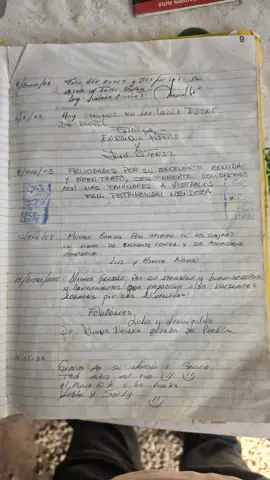
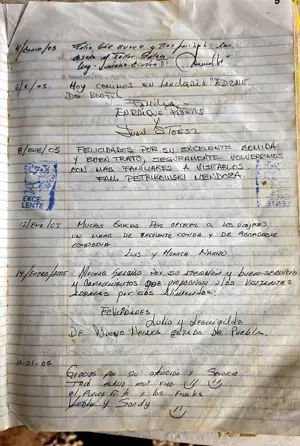
Libreta de Lupita y Jaime: páginas recortadas (solo la hoja), derechas y con mejor contraste
Claude-Session: https://claude.ai/code/session_01Yc6JkFmjoDmxFnH2HCh24T

diff --git a/sitio/lupita-y-jaime/index.html b/sitio/lupita-y-jaime/index.html
@@ -60,9 +60,9 @@
 <section style="padding-top:0"><div class="w">
 <h2 data-en="Their guestbook since 2004">Su libreta de visitas desde 2004</h2>
 <p class="mu" data-en="For more than 20 years, visitors from Mexico, Germany, Austria, the Netherlands, Italy, Switzerland, Japan, Brazil, the United States and more have left their greetings in Lupita and Jaime's guestbook. Tap a page to see it large. We keep adding pages." style="max-width:65ch">Por más de 20 años, visitantes de México, Alemania, Austria, Holanda, Italia, Suiza, Japón, Brasil, Estados Unidos y más han dejado sus saludos en la libreta de Lupita y Jaime. Toca una página para verla en grande. Seguimos subiendo más.</p>
-<style>.lbg{display:grid;grid-template-columns:repeat(auto-fill,minmax(130px,1fr));gap:10px;margin-top:14px}.lbt{position:relative;padding:0;border:1px solid var(--line);border-radius:12px;overflow:hidden;background:none;cursor:pointer}.lbt img{width:100%;height:auto;display:block;aspect-ratio:9/16;object-fit:cover}.lbt span{position:absolute;left:6px;bottom:6px;background:rgba(10,5,20,.8);color:#fff;font-size:12px;font-weight:800;padding:2px 8px;border-radius:99px}
+<style>.lbg{display:grid;grid-template-columns:repeat(auto-fill,minmax(130px,1fr));gap:10px;margin-top:14px}.lbt{position:relative;padding:0;border:1px solid var(--line);border-radius:12px;overflow:hidden;background:none;cursor:pointer}.lbt img{width:100%;height:auto;display:block;aspect-ratio:3/4;object-fit:cover;object-position:top}.lbt span{position:absolute;left:6px;bottom:6px;background:rgba(10,5,20,.8);color:#fff;font-size:12px;font-weight:800;padding:2px 8px;border-radius:99px}
 #lbx{position:fixed;inset:0;z-index:9999;background:rgba(5,3,10,.96);display:flex;flex-direction:column;align-items:center;justify-content:center;padding:max(12px,env(safe-area-inset-top)) 12px max(12px,env(safe-area-inset-bottom))}#lbx[hidden]{display:none}#lbx img{max-width:100%;max-height:calc(100vh - 90px);object-fit:contain;border-radius:8px;touch-action:pan-y pinch-zoom}#lbx .bar{display:flex;gap:10px;margin-top:10px;align-items:center;color:#fff}#lbx button{font:800 18px system-ui;background:#2a1150;color:#fff;border:1px solid #6b3fb0;border-radius:12px;padding:10px 16px;cursor:pointer}</style>
-<div class="lbg"><button aria-label="Ver página 1" class="lbt" onclick="lbA(0)"><img alt="Página de la libreta de visitas · 2004" height="533" loading="lazy" src="../img/libreta-01-t.webp" width="300"/><span>2004</span></button><button aria-label="Ver página 2" class="lbt" onclick="lbA(1)"><img alt="Página de la libreta de visitas · 2004" height="533" loading="lazy" src="../img/libreta-02-t.webp" width="300"/><span>2004</span></button><button aria-label="Ver página 3" class="lbt" onclick="lbA(2)"><img alt="Página de la libreta de visitas · 2004" height="533" loading="lazy" src="../img/libreta-03-t.webp" width="300"/><span>2004</span></button><button aria-label="Ver página 4" class="lbt" onclick="lbA(3)"><img alt="Página de la libreta de visitas · 2004" height="533" loading="lazy" src="../img/libreta-04-t.webp" width="300"/><span>2004</span></button><button aria-label="Ver página 5" class="lbt" onclick="lbA(4)"><img alt="Página de la libreta de visitas · 2004" height="533" loading="lazy" src="../img/libreta-05-t.webp" width="300"/><span>2004</span></button><button aria-label="Ver página 6" class="lbt" onclick="lbA(5)"><img alt="Página de la libreta de visitas · 2004–2005" height="533" loading="lazy" src="../img/libreta-06-t.webp" width="300"/><span>2004–2005</span></button><button aria-label="Ver página 7" class="lbt" onclick="lbA(6)"><img alt="Página de la libreta de visitas · 2005" height="533" loading="lazy" src="../img/libreta-07-t.webp" width="300"/><span>2005</span></button><button aria-label="Ver página 8" class="lbt" onclick="lbA(7)"><img alt="Página de la libreta de visitas · 2005" height="533" loading="lazy" src="../img/libreta-08-t.webp" width="300"/><span>2005</span></button><button aria-label="Ver página 9" class="lbt" onclick="lbA(8)"><img alt="Página de la libreta de visitas · 2005" height="533" loading="lazy" src="../img/libreta-09-t.webp" width="300"/><span>2005</span></button><button aria-label="Ver página 10" class="lbt" onclick="lbA(9)"><img alt="Página de la libreta de visitas · 2005" height="533" loading="lazy" src="../img/libreta-10-t.webp" width="300"/><span>2005</span></button><button aria-label="Ver página 11" class="lbt" onclick="lbA(10)"><img alt="Página de la libreta de visitas · 2006" height="533" loading="lazy" src="../img/libreta-11-t.webp" width="300"/><span>2006</span></button><button aria-label="Ver página 12" class="lbt" onclick="lbA(11)"><img alt="Página de la libreta de visitas" height="533" loading="lazy" src="../img/libreta-12-t.webp" width="300"/></button><button aria-label="Ver página 13" class="lbt" onclick="lbA(12)"><img alt="Página de la libreta de visitas · 2022–2023" height="533" loading="lazy" src="../img/libreta-13-t.webp" width="300"/><span>2022–2023</span></button></div>
+<div class="lbg"><button aria-label="Ver página 1" class="lbt" onclick="lbA(0)"><img alt="Página de la libreta de visitas · 2004" height="400" loading="lazy" src="../img/libreta-01-t.webp" width="300"/><span>2004</span></button><button aria-label="Ver página 2" class="lbt" onclick="lbA(1)"><img alt="Página de la libreta de visitas · 2004" height="400" loading="lazy" src="../img/libreta-02-t.webp" width="300"/><span>2004</span></button><button aria-label="Ver página 3" class="lbt" onclick="lbA(2)"><img alt="Página de la libreta de visitas · 2004" height="400" loading="lazy" src="../img/libreta-03-t.webp" width="300"/><span>2004</span></button><button aria-label="Ver página 4" class="lbt" onclick="lbA(3)"><img alt="Página de la libreta de visitas · 2004" height="400" loading="lazy" src="../img/libreta-04-t.webp" width="300"/><span>2004</span></button><button aria-label="Ver página 5" class="lbt" onclick="lbA(4)"><img alt="Página de la libreta de visitas · 2004" height="400" loading="lazy" src="../img/libreta-05-t.webp" width="300"/><span>2004</span></button><button aria-label="Ver página 6" class="lbt" onclick="lbA(5)"><img alt="Página de la libreta de visitas · 2004–2005" height="400" loading="lazy" src="../img/libreta-06-t.webp" width="300"/><span>2004–2005</span></button><button aria-label="Ver página 7" class="lbt" onclick="lbA(6)"><img alt="Página de la libreta de visitas · 2005" height="400" loading="lazy" src="../img/libreta-07-t.webp" width="300"/><span>2005</span></button><button aria-label="Ver página 8" class="lbt" onclick="lbA(7)"><img alt="Página de la libreta de visitas · 2005" height="400" loading="lazy" src="../img/libreta-08-t.webp" width="300"/><span>2005</span></button><button aria-label="Ver página 9" class="lbt" onclick="lbA(8)"><img alt="Página de la libreta de visitas · 2005" height="400" loading="lazy" src="../img/libreta-09-t.webp" width="300"/><span>2005</span></button><button aria-label="Ver página 10" class="lbt" onclick="lbA(9)"><img alt="Página de la libreta de visitas · 2005" height="400" loading="lazy" src="../img/libreta-10-t.webp" width="300"/><span>2005</span></button><button aria-label="Ver página 11" class="lbt" onclick="lbA(10)"><img alt="Página de la libreta de visitas · 2006" height="400" loading="lazy" src="../img/libreta-11-t.webp" width="300"/><span>2006</span></button><button aria-label="Ver página 12" class="lbt" onclick="lbA(11)"><img alt="Página de la libreta de visitas" height="400" loading="lazy" src="../img/libreta-12-t.webp" width="300"/></button><button aria-label="Ver página 13" class="lbt" onclick="lbA(12)"><img alt="Página de la libreta de visitas · 2022–2023" height="400" loading="lazy" src="../img/libreta-13-t.webp" width="300"/><span>2022–2023</span></button></div>
 <div hidden="" id="lbx"><img alt="" id="lbi"/><div class="bar"><button aria-label="Anterior" onclick="lbM(-1)">‹</button><span id="lbn"></span><button aria-label="Siguiente" onclick="lbM(1)">›</button><button aria-label="Cerrar" onclick="lbC()">✕</button></div></div>
 <script>var LBN=13,LBI=0;function lbS(){var n=('0'+(LBI+1)).slice(-2);document.getElementById('lbi').src='/img/libreta-'+n+'.webp';document.getElementById('lbn').textContent=(LBI+1)+' / '+LBN}
 function lbA(i){LBI=i;lbS();document.getElementById('lbx').hidden=false}function lbM(d){LBI=(LBI+d+LBN)%LBN;lbS()}function lbC(){document.getElementById('lbx').hidden=true}

diff --git a/sitio/en/lupita-y-jaime/index.html b/sitio/en/lupita-y-jaime/index.html
@@ -60,9 +60,9 @@
 <section style="padding-top:0"><div class="w">
 <h2>Their guestbook since 2004</h2>
 <p class="mu" style="max-width:65ch">For more than 20 years, visitors from Mexico, Germany, Austria, the Netherlands, Italy, Switzerland, Japan, Brazil, the United States and more have left their greetings in Lupita and Jaime's guestbook. Tap a page to see it large. We keep adding pages.</p>
-<style>.lbg{display:grid;grid-template-columns:repeat(auto-fill,minmax(130px,1fr));gap:10px;margin-top:14px}.lbt{position:relative;padding:0;border:1px solid var(--line);border-radius:12px;overflow:hidden;background:none;cursor:pointer}.lbt img{width:100%;height:auto;display:block;aspect-ratio:9/16;object-fit:cover}.lbt span{position:absolute;left:6px;bottom:6px;background:rgba(10,5,20,.8);color:#fff;font-size:12px;font-weight:800;padding:2px 8px;border-radius:99px}
+<style>.lbg{display:grid;grid-template-columns:repeat(auto-fill,minmax(130px,1fr));gap:10px;margin-top:14px}.lbt{position:relative;padding:0;border:1px solid var(--line);border-radius:12px;overflow:hidden;background:none;cursor:pointer}.lbt img{width:100%;height:auto;display:block;aspect-ratio:3/4;object-fit:cover;object-position:top}.lbt span{position:absolute;left:6px;bottom:6px;background:rgba(10,5,20,.8);color:#fff;font-size:12px;font-weight:800;padding:2px 8px;border-radius:99px}
 #lbx{position:fixed;inset:0;z-index:9999;background:rgba(5,3,10,.96);display:flex;flex-direction:column;align-items:center;justify-content:center;padding:max(12px,env(safe-area-inset-top)) 12px max(12px,env(safe-area-inset-bottom))}#lbx[hidden]{display:none}#lbx img{max-width:100%;max-height:calc(100vh - 90px);object-fit:contain;border-radius:8px;touch-action:pan-y pinch-zoom}#lbx .bar{display:flex;gap:10px;margin-top:10px;align-items:center;color:#fff}#lbx button{font:800 18px system-ui;background:#2a1150;color:#fff;border:1px solid #6b3fb0;border-radius:12px;padding:10px 16px;cursor:pointer}</style>
-<div class="lbg"><button aria-label="Ver página 1" class="lbt" onclick="lbA(0)"><img alt="Página de la libreta de visitas · 2004" height="533" loading="lazy" src="/img/libreta-01-t.webp" width="300"/><span>2004</span></button><button aria-label="Ver página 2" class="lbt" onclick="lbA(1)"><img alt="Página de la libreta de visitas · 2004" height="533" loading="lazy" src="/img/libreta-02-t.webp" width="300"/><span>2004</span></button><button aria-label="Ver página 3" class="lbt" onclick="lbA(2)"><img alt="Página de la libreta de visitas · 2004" height="533" loading="lazy" src="/img/libreta-03-t.webp" width="300"/><span>2004</span></button><button aria-label="Ver página 4" class="lbt" onclick="lbA(3)"><img alt="Página de la libreta de visitas · 2004" height="533" loading="lazy" src="/img/libreta-04-t.webp" width="300"/><span>2004</span></button><button aria-label="Ver página 5" class="lbt" onclick="lbA(4)"><img alt="Página de la libreta de visitas · 2004" height="533" loading="lazy" src="/img/libreta-05-t.webp" width="300"/><span>2004</span></button><button aria-label="Ver página 6" class="lbt" onclick="lbA(5)"><img alt="Página de la libreta de visitas · 2004–2005" height="533" loading="lazy" src="/img/libreta-06-t.webp" width="300"/><span>2004–2005</span></button><button aria-label="Ver página 7" class="lbt" onclick="lbA(6)"><img alt="Página de la libreta de visitas · 2005" height="533" loading="lazy" src="/img/libreta-07-t.webp" width="300"/><span>2005</span></button><button aria-label="Ver página 8" class="lbt" onclick="lbA(7)"><img alt="Página de la libreta de visitas · 2005" height="533" loading="lazy" src="/img/libreta-08-t.webp" width="300"/><span>2005</span></button><button aria-label="Ver página 9" class="lbt" onclick="lbA(8)"><img alt="Página de la libreta de visitas · 2005" height="533" loading="lazy" src="/img/libreta-09-t.webp" width="300"/><span>2005</span></button><button aria-label="Ver página 10" class="lbt" onclick="lbA(9)"><img alt="Página de la libreta de visitas · 2005" height="533" loading="lazy" src="/img/libreta-10-t.webp" width="300"/><span>2005</span></button><button aria-label="Ver página 11" class="lbt" onclick="lbA(10)"><img alt="Página de la libreta de visitas · 2006" height="533" loading="lazy" src="/img/libreta-11-t.webp" width="300"/><span>2006</span></button><button aria-label="Ver página 12" class="lbt" onclick="lbA(11)"><img alt="Página de la libreta de visitas" height="533" loading="lazy" src="/img/libreta-12-t.webp" width="300"/></button><button aria-label="Ver página 13" class="lbt" onclick="lbA(12)"><img alt="Página de la libreta de visitas · 2022–2023" height="533" loading="lazy" src="/img/libreta-13-t.webp" width="300"/><span>2022–2023</span></button></div>
+<div class="lbg"><button aria-label="Ver página 1" class="lbt" onclick="lbA(0)"><img alt="Página de la libreta de visitas · 2004" height="400" loading="lazy" src="/img/libreta-01-t.webp" width="300"/><span>2004</span></button><button aria-label="Ver página 2" class="lbt" onclick="lbA(1)"><img alt="Página de la libreta de visitas · 2004" height="400" loading="lazy" src="/img/libreta-02-t.webp" width="300"/><span>2004</span></button><button aria-label="Ver página 3" class="lbt" onclick="lbA(2)"><img alt="Página de la libreta de visitas · 2004" height="400" loading="lazy" src="/img/libreta-03-t.webp" width="300"/><span>2004</span></button><button aria-label="Ver página 4" class="lbt" onclick="lbA(3)"><img alt="Página de la libreta de visitas · 2004" height="400" loading="lazy" src="/img/libreta-04-t.webp" width="300"/><span>2004</span></button><button aria-label="Ver página 5" class="lbt" onclick="lbA(4)"><img alt="Página de la libreta de visitas · 2004" height="400" loading="lazy" src="/img/libreta-05-t.webp" width="300"/><span>2004</span></button><button aria-label="Ver página 6" class="lbt" onclick="lbA(5)"><img alt="Página de la libreta de visitas · 2004–2005" height="400" loading="lazy" src="/img/libreta-06-t.webp" width="300"/><span>2004–2005</span></button><button aria-label="Ver página 7" class="lbt" onclick="lbA(6)"><img alt="Página de la libreta de visitas · 2005" height="400" loading="lazy" src="/img/libreta-07-t.webp" width="300"/><span>2005</span></button><button aria-label="Ver página 8" class="lbt" onclick="lbA(7)"><img alt="Página de la libreta de visitas · 2005" height="400" loading="lazy" src="/img/libreta-08-t.webp" width="300"/><span>2005</span></button><button aria-label="Ver página 9" class="lbt" onclick="lbA(8)"><img alt="Página de la libreta de visitas · 2005" height="400" loading="lazy" src="/img/libreta-09-t.webp" width="300"/><span>2005</span></button><button aria-label="Ver página 10" class="lbt" onclick="lbA(9)"><img alt="Página de la libreta de visitas · 2005" height="400" loading="lazy" src="/img/libreta-10-t.webp" width="300"/><span>2005</span></button><button aria-label="Ver página 11" class="lbt" onclick="lbA(10)"><img alt="Página de la libreta de visitas · 2006" height="400" loading="lazy" src="/img/libreta-11-t.webp" width="300"/><span>2006</span></button><button aria-label="Ver página 12" class="lbt" onclick="lbA(11)"><img alt="Página de la libreta de visitas" height="400" loading="lazy" src="/img/libreta-12-t.webp" width="300"/></button><button aria-label="Ver página 13" class="lbt" onclick="lbA(12)"><img alt="Página de la libreta de visitas · 2022–2023" height="400" loading="lazy" src="/img/libreta-13-t.webp" width="300"/><span>2022–2023</span></button></div>
 <div hidden="" id="lbx"><img alt="" id="lbi"/><div class="bar"><button aria-label="Anterior" onclick="lbM(-1)">‹</button><span id="lbn"></span><button aria-label="Siguiente" onclick="lbM(1)">›</button><button aria-label="Cerrar" onclick="lbC()">✕</button></div></div>
 <script>var LBN=13,LBI=0;function lbS(){var n=('0'+(LBI+1)).slice(-2);document.getElementById('lbi').src='/img/libreta-'+n+'.webp';document.getElementById('lbn').textContent=(LBI+1)+' / '+LBN}
 function lbA(i){LBI=i;lbS();document.getElementById('lbx').hidden=false}function lbM(d){LBI=(LBI+d+LBN)%LBN;lbS()}function lbC(){document.getElementById('lbx').hidden=true}

diff --git a/herramientas-sitio/gen.py b/herramientas-sitio/gen.py
@@ -511,9 +511,9 @@ page('lupita-y-jaime','Dónde comer cerca de Edzná · Tienda y comedor Lupita y
 <section style="padding-top:0"><div class="w">
 <h2 data-en="Their guestbook since 2004">Su libreta de visitas desde 2004</h2>
 <p class="mu" style="max-width:65ch" data-en="For more than 20 years, visitors from Mexico, Germany, Austria, the Netherlands, Italy, Switzerland, Japan, Brazil, the United States and more have left their greetings in Lupita and Jaime's guestbook. Tap a page to see it large. We keep adding pages.">Por más de 20 años, visitantes de México, Alemania, Austria, Holanda, Italia, Suiza, Japón, Brasil, Estados Unidos y más han dejado sus saludos en la libreta de Lupita y Jaime. Toca una página para verla en grande. Seguimos subiendo más.</p>
-<style>.lbg{display:grid;grid-template-columns:repeat(auto-fill,minmax(130px,1fr));gap:10px;margin-top:14px}.lbt{position:relative;padding:0;border:1px solid var(--line);border-radius:12px;overflow:hidden;background:none;cursor:pointer}.lbt img{width:100%;height:auto;display:block;aspect-ratio:9/16;object-fit:cover}.lbt span{position:absolute;left:6px;bottom:6px;background:rgba(10,5,20,.8);color:#fff;font-size:12px;font-weight:800;padding:2px 8px;border-radius:99px}
+<style>.lbg{display:grid;grid-template-columns:repeat(auto-fill,minmax(130px,1fr));gap:10px;margin-top:14px}.lbt{position:relative;padding:0;border:1px solid var(--line);border-radius:12px;overflow:hidden;background:none;cursor:pointer}.lbt img{width:100%;height:auto;display:block;aspect-ratio:3/4;object-fit:cover;object-position:top}.lbt span{position:absolute;left:6px;bottom:6px;background:rgba(10,5,20,.8);color:#fff;font-size:12px;font-weight:800;padding:2px 8px;border-radius:99px}
 #lbx{position:fixed;inset:0;z-index:9999;background:rgba(5,3,10,.96);display:flex;flex-direction:column;align-items:center;justify-content:center;padding:max(12px,env(safe-area-inset-top)) 12px max(12px,env(safe-area-inset-bottom))}#lbx[hidden]{display:none}#lbx img{max-width:100%;max-height:calc(100vh - 90px);object-fit:contain;border-radius:8px;touch-action:pan-y pinch-zoom}#lbx .bar{display:flex;gap:10px;margin-top:10px;align-items:center;color:#fff}#lbx button{font:800 18px system-ui;background:#2a1150;color:#fff;border:1px solid #6b3fb0;border-radius:12px;padding:10px 16px;cursor:pointer}</style>
-<div class="lbg"><button class="lbt" onclick="lbA(0)" aria-label="Ver página 1"><img src="../img/libreta-01-t.webp" alt="Página de la libreta de visitas · 2004" loading="lazy" width="300" height="533"><span>2004</span></button><button class="lbt" onclick="lbA(1)" aria-label="Ver página 2"><img src="../img/libreta-02-t.webp" alt="Página de la libreta de visitas · 2004" loading="lazy" width="300" height="533"><span>2004</span></button><button class="lbt" onclick="lbA(2)" aria-label="Ver página 3"><img src="../img/libreta-03-t.webp" alt="Página de la libreta de visitas · 2004" loading="lazy" width="300" height="533"><span>2004</span></button><button class="lbt" onclick="lbA(3)" aria-label="Ver página 4"><img src="../img/libreta-04-t.webp" alt="Página de la libreta de visitas · 2004" loading="lazy" width="300" height="533"><span>2004</span></button><button class="lbt" onclick="lbA(4)" aria-label="Ver página 5"><img src="../img/libreta-05-t.webp" alt="Página de la libreta de visitas · 2004" loading="lazy" width="300" height="533"><span>2004</span></button><button class="lbt" onclick="lbA(5)" aria-label="Ver página 6"><img src="../img/libreta-06-t.webp" alt="Página de la libreta de visitas · 2004–2005" loading="lazy" width="300" height="533"><span>2004–2005</span></button><button class="lbt" onclick="lbA(6)" aria-label="Ver página 7"><img src="../img/libreta-07-t.webp" alt="Página de la libreta de visitas · 2005" loading="lazy" width="300" height="533"><span>2005</span></button><button class="lbt" onclick="lbA(7)" aria-label="Ver página 8"><img src="../img/libreta-08-t.webp" alt="Página de la libreta de visitas · 2005" loading="lazy" width="300" height="533"><span>2005</span></button><button class="lbt" onclick="lbA(8)" aria-label="Ver página 9"><img src="../img/libreta-09-t.webp" alt="Página de la libreta de visitas · 2005" loading="lazy" width="300" height="533"><span>2005</span></button><button class="lbt" onclick="lbA(9)" aria-label="Ver página 10"><img src="../img/libreta-10-t.webp" alt="Página de la libreta de visitas · 2005" loading="lazy" width="300" height="533"><span>2005</span></button><button class="lbt" onclick="lbA(10)" aria-label="Ver página 11"><img src="../img/libreta-11-t.webp" alt="Página de la libreta de visitas · 2006" loading="lazy" width="300" height="533"><span>2006</span></button><button class="lbt" onclick="lbA(11)" aria-label="Ver página 12"><img src="../img/libreta-12-t.webp" alt="Página de la libreta de visitas" loading="lazy" width="300" height="533"></button><button class="lbt" onclick="lbA(12)" aria-label="Ver página 13"><img src="../img/libreta-13-t.webp" alt="Página de la libreta de visitas · 2022–2023" loading="lazy" width="300" height="533"><span>2022–2023</span></button></div>
+<div class="lbg"><button class="lbt" onclick="lbA(0)" aria-label="Ver página 1"><img src="../img/libreta-01-t.webp" alt="Página de la libreta de visitas · 2004" loading="lazy" width="300" height="400"><span>2004</span></button><button class="lbt" onclick="lbA(1)" aria-label="Ver página 2"><img src="../img/libreta-02-t.webp" alt="Página de la libreta de visitas · 2004" loading="lazy" width="300" height="400"><span>2004</span></button><button class="lbt" onclick="lbA(2)" aria-label="Ver página 3"><img src="../img/libreta-03-t.webp" alt="Página de la libreta de visitas · 2004" loading="lazy" width="300" height="400"><span>2004</span></button><button class="lbt" onclick="lbA(3)" aria-label="Ver página 4"><img src="../img/libreta-04-t.webp" alt="Página de la libreta de visitas · 2004" loading="lazy" width="300" height="400"><span>2004</span></button><button class="lbt" onclick="lbA(4)" aria-label="Ver página 5"><img src="../img/libreta-05-t.webp" alt="Página de la libreta de visitas · 2004" loading="lazy" width="300" height="400"><span>2004</span></button><button class="lbt" onclick="lbA(5)" aria-label="Ver página 6"><img src="../img/libreta-06-t.webp" alt="Página de la libreta de visitas · 2004–2005" loading="lazy" width="300" height="400"><span>2004–2005</span></button><button class="lbt" onclick="lbA(6)" aria-label="Ver página 7"><img src="../img/libreta-07-t.webp" alt="Página de la libreta de visitas · 2005" loading="lazy" width="300" height="400"><span>2005</span></button><button class="lbt" onclick="lbA(7)" aria-label="Ver página 8"><img src="../img/libreta-08-t.webp" alt="Página de la libreta de visitas · 2005" loading="lazy" width="300" height="400"><span>2005</span></button><button class="lbt" onclick="lbA(8)" aria-label="Ver página 9"><img src="../img/libreta-09-t.webp" alt="Página de la libreta de visitas · 2005" loading="lazy" width="300" height="400"><span>2005</span></button><button class="lbt" onclick="lbA(9)" aria-label="Ver página 10"><img src="../img/libreta-10-t.webp" alt="Página de la libreta de visitas · 2005" loading="lazy" width="300" height="400"><span>2005</span></button><button class="lbt" onclick="lbA(10)" aria-label="Ver página 11"><img src="../img/libreta-11-t.webp" alt="Página de la libreta de visitas · 2006" loading="lazy" width="300" height="400"><span>2006</span></button><button class="lbt" onclick="lbA(11)" aria-label="Ver página 12"><img src="../img/libreta-12-t.webp" alt="Página de la libreta de visitas" loading="lazy" width="300" height="400"></button><button class="lbt" onclick="lbA(12)" aria-label="Ver página 13"><img src="../img/libreta-13-t.webp" alt="Página de la libreta de visitas · 2022–2023" loading="lazy" width="300" height="400"><span>2022–2023</span></button></div>
 <div id="lbx" hidden><img id="lbi" alt=""><div class="bar"><button onclick="lbM(-1)" aria-label="Anterior">‹</button><span id="lbn"></span><button onclick="lbM(1)" aria-label="Siguiente">›</button><button onclick="lbC()" aria-label="Cerrar">✕</button></div></div>
 <script>var LBN=13,LBI=0;function lbS(){var n=('0'+(LBI+1)).slice(-2);document.getElementById('lbi').src='/img/libreta-'+n+'.webp';document.getElementById('lbn').textContent=(LBI+1)+' / '+LBN}
 function lbA(i){LBI=i;lbS();document.getElementById('lbx').hidden=false}function lbM(d){LBI=(LBI+d+LBN)%LBN;lbS()}function lbC(){document.getElementById('lbx').hidden=true}
